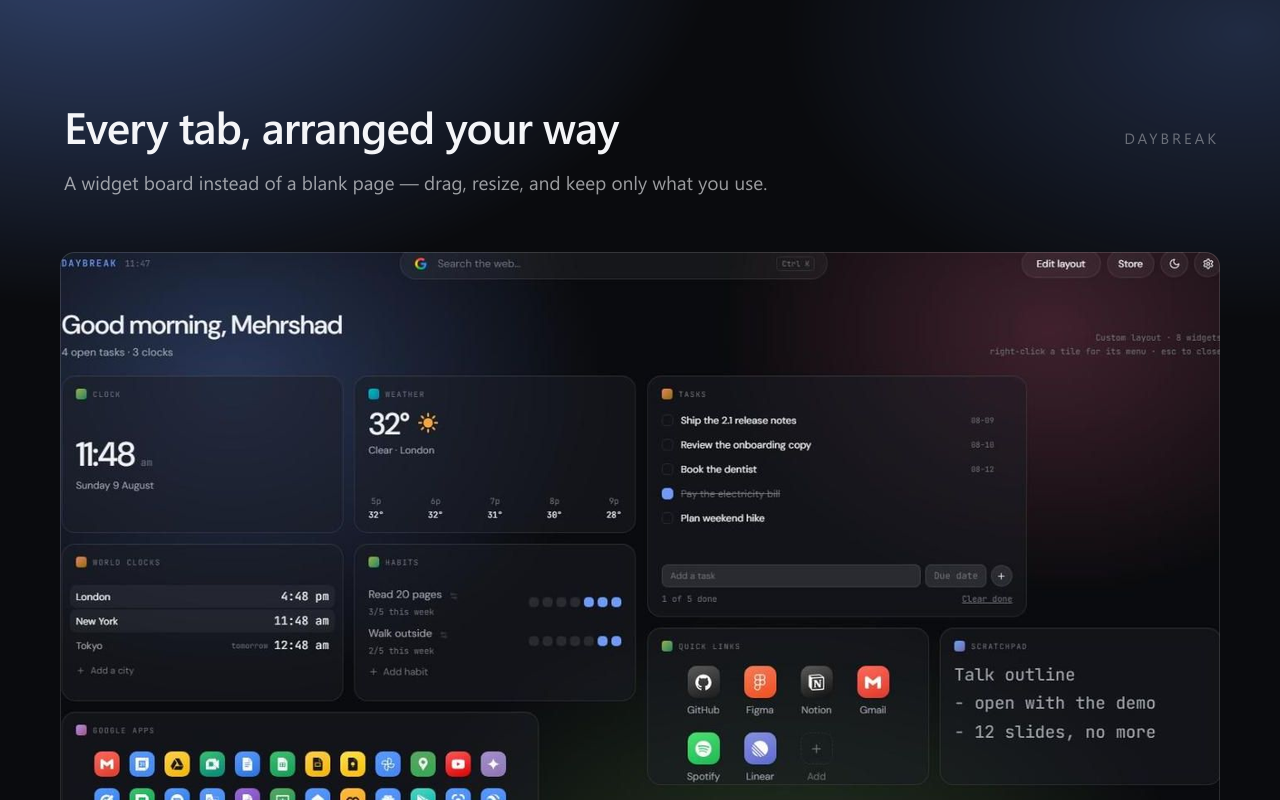
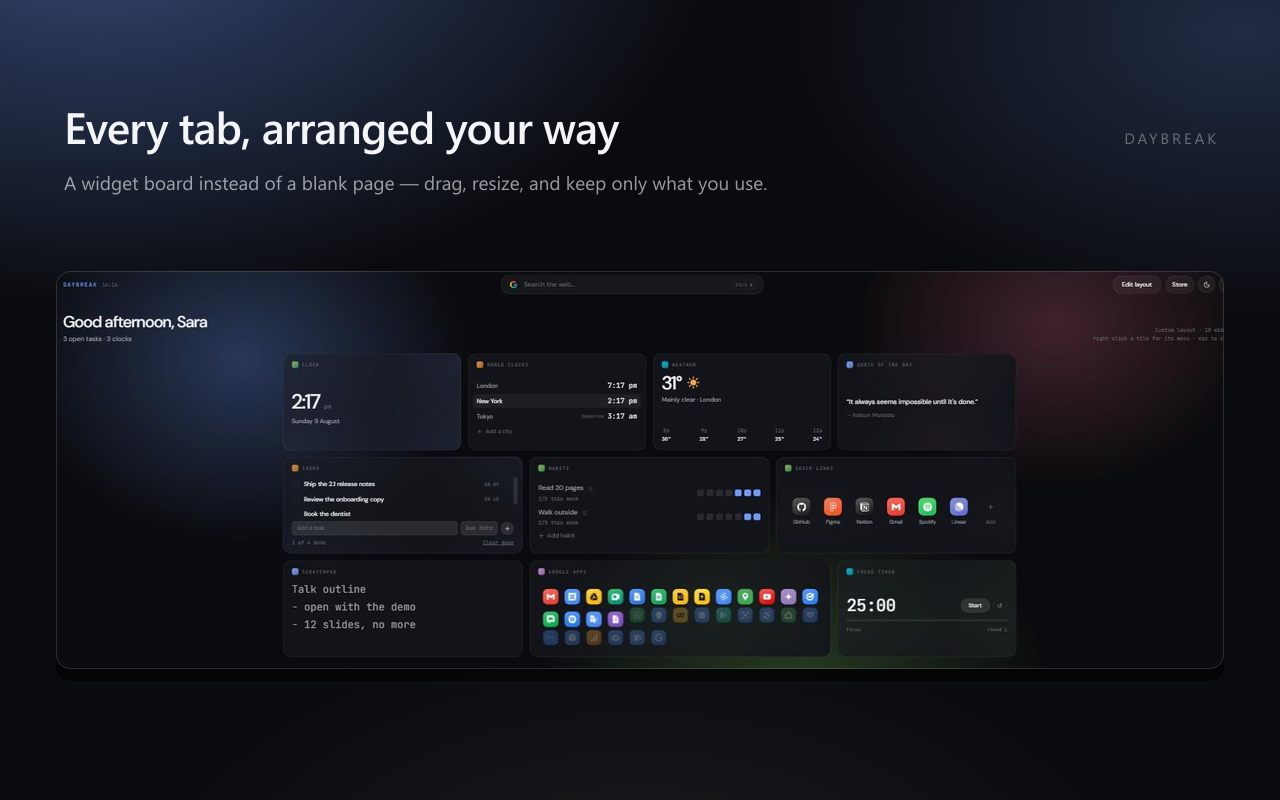
Give the listing cards their margins back, and split one in two
The screenshot was pinned to a fixed width at a fixed y, which is only
ever right for one capture aspect. Anything taller ran off the bottom of
the card — no margin under it at all, which is exactly how it looked. It
is fitted into the space under the caption now, centred, so a capture of
any shape lands with the same air around it.

The trim is per side. Losing enough off every edge to catch the parked
pointer was also taking the page's own wordmark out of its top-left
corner; the pointer and the scrollbar are only ever bottom and right.

Five cards, not six — that is the store's maximum, so "customize your own
way" is now the one that shows both themes at once: the same board, same
arrangement, same moment, split down the middle with dark on the left and
light on the right. The generator builds it from the two halves, which is
why the theme is switched in the drawer rather than reloaded — nothing
between the two captures moves.

The boards themselves are laid out to tile the twelve columns exactly.
Sizes were being set to whatever looked right and then clamped to each
widget's allowed sizes — Tasks has no 3-wide size at all — which left
holes down the right of every band. Each card also carries a different
name in the greeting, so the listing does not read as one person's board
six times over.

diff --git a/store-assets/SUBMISSION.md b/store-assets/SUBMISSION.md
@@ -155,10 +155,12 @@ not match the manifest is a common rejection.
 | Store icon (128x128) | `store-icon-128.png` — the mark at 96x96 with the transparent padding the image guidelines ask for. Not `public/icon-128.png`, which is full-bleed for Chrome's own surfaces. |
 | Screenshot 1 (1280x800) | `screenshot-1.png` — the board |
 | Screenshot 2 (1280x800) | `screenshot-2.png` — widgets in use |
-| Screenshot 3 (1280x800) | `screenshot-3.png` — layout mode |
+| Screenshot 3 (1280x800) | `screenshot-3.png` — layout mode, mid-drag |
 | Screenshot 4 (1280x800) | `screenshot-4.png` — the widget browser |
-| Screenshot 5 (1280x800) | `screenshot-5.png` — themes and backgrounds |
-| Screenshot 6 (1280x800) | `screenshot-6.png` — a board made your own |
+| Screenshot 5 (1280x800) | `screenshot-5.png` — one board split down the middle, dark on the left and light on the right, built by the generator from `raw/5-dark.jpg` and `raw/5-light.jpg` |
+
+Five is the store's maximum, so each card has to carry its own idea — no two
+show the same theme, accent, background or name.
 | Small promo tile (440x280) | `promo-tile-440x280.png` |
 | Marquee promo tile (1400x560) | `marquee-1400x560.png` — only used if the store features the item |
 
@@ -228,7 +230,7 @@ reaches the developer, who operates no server.
 - [ ] `manifest.json` name reads `Daybreak - New Tab` and version `2.1.0`
 - [ ] loaded the built `dist/` unpacked once, over a 2.0.0 profile, and
       confirmed existing settings, board layout and widget content are intact
-- [ ] store icon, six screenshots, the small promo tile and the marquee
+- [ ] store icon, five screenshots, the small promo tile and the marquee
       uploaded — re-captured on 2026-08-09, each one on a different theme,
       accent and background so the listing shows what is adjustable
 - [ ] release notes filled in
